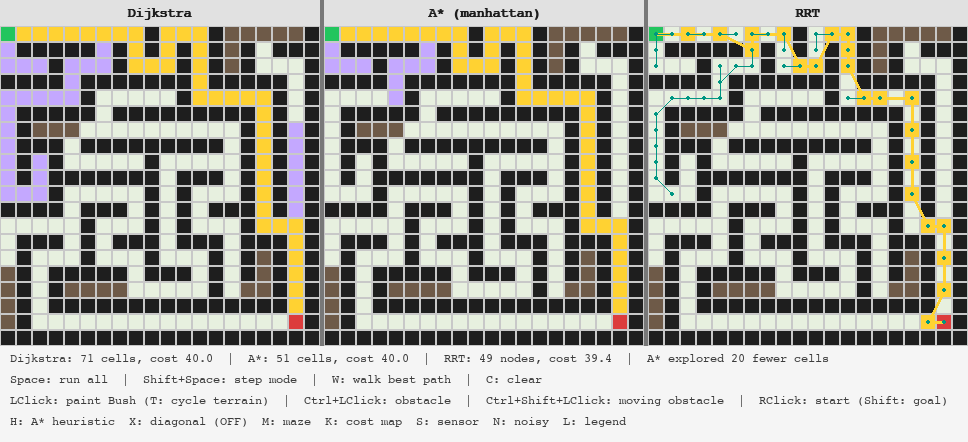
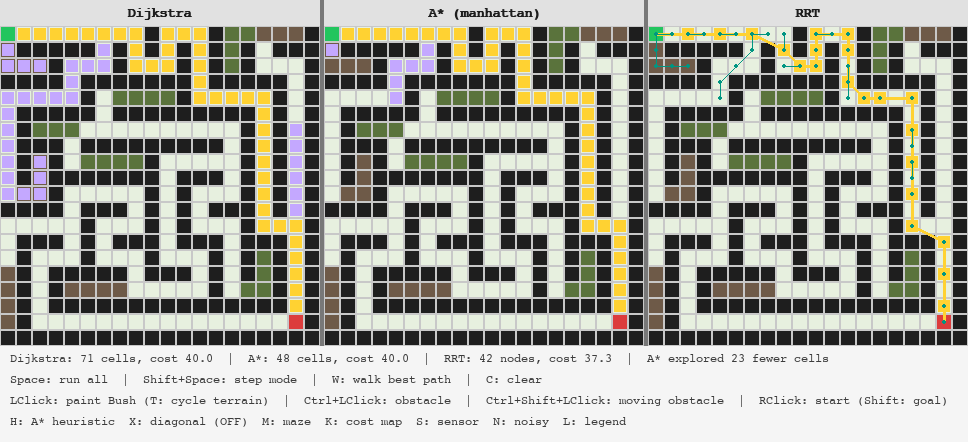
keep terrain visible under path/explored cells (terrain-colored border inset instead of a solid fill) and scatter richer bush/mud/water terrain across all seven scenarios

diff --git a/nav/visualizer.py b/nav/visualizer.py
@@ -67,8 +67,23 @@ def draw_grid_panel(screen, grid, explored, path, algo, reason, moving_cells,
                      sensor_enabled, known_obstacles, x_off, y_off, grid_size, cell_size):
     """Draw one algorithm's panel -- same per-cell priority order as the
     single-panel version had: start/goal, path, explored, obstacle,
-    cost-map tint, terrain background (see Step 3/4)."""
+    cost-map tint, terrain background (see Step 3/4).
+
+    Path and explored are drawn as a smaller inset square over a
+    full-cell terrain-colored background, leaving a visible terrain-
+    colored border ring around the cell, rather than painting over the
+    terrain entirely (an earlier version blended the two colors
+    together instead, which visibly washed out the difference between
+    terrain types once mixed with a strongly-saturated overlay color --
+    bush, mud, and water all blend toward nearly the same muddy yellow
+    once mixed with enough YELLOW, since blending averages away exactly
+    the hue difference that distinguishes them). Keeping both colors at
+    full, unmixed saturation -- terrain in the border, path/explored in
+    the center -- means a viewer never has to guess which terrain type
+    is under a busy Dijkstra wavefront; it's still right there, just
+    framing the cell instead of filling it."""
     path_set = set(path) if path else set()
+    border = max(2, cell_size // 6)
 
     for row in range(grid_size):
         for col in range(grid_size):
@@ -76,17 +91,18 @@ def draw_grid_panel(screen, grid, explored, path, algo, reason, moving_cells,
             pos = (row, col)
             hidden = sensor_enabled and cell == Grid.OBSTACLE and pos not in known_obstacles
             terrain_color = TERRAIN_COLORS[grid.terrain[row][col]]
+            inset_color = None
 
             if cell == Grid.START:
                 color = DARK_RED if reason == "start_blocked" else GREEN
             elif cell == Grid.GOAL:
                 color = DARK_RED if reason in ("goal_blocked", "no_path") else RED
             elif pos in path_set:
-                color = YELLOW
+                color, inset_color = terrain_color, YELLOW
             # RRT's tree is drawn separately as edges -- filling every
             # tree node here would look like Dijkstra's solid explored blob.
             elif pos in explored and algo != "rrt":
-                color = EXPLORED_COLOR
+                color, inset_color = terrain_color, EXPLORED_COLOR
             elif cell == Grid.OBSTACLE and not hidden:
                 color = ORANGE if pos in moving_cells else BLACK
             elif grid.cost_map_enabled and not hidden and grid.cost[row][col] > 1.0:
@@ -98,6 +114,8 @@ def draw_grid_panel(screen, grid, explored, path, algo, reason, moving_cells,
 
             rect = pygame.Rect(x_off + col * cell_size, y_off + row * cell_size, cell_size, cell_size)
             pygame.draw.rect(screen, color, rect)
+            if inset_color is not None:
+                pygame.draw.rect(screen, inset_color, rect.inflate(-2 * border, -2 * border))
             pygame.draw.rect(screen, GRAY, rect, 1)
             if hidden:
                 pygame.draw.rect(screen, HIDDEN_OBSTACLE_OUTLINE, rect, 2)

diff --git a/scenarios/scenario_open.py b/scenarios/scenario_open.py
@@ -1,9 +1,10 @@
 """Open Field -- sparse fixed obstacles scattered across otherwise open
-ground, with a small bush/mud terrain patch near the center. Start near
-top-left, goal near bottom-right, so there's nothing forcing a
-particular route -- this is meant to show Dijkstra's full radial
-exploration blob against A*'s directed search and RRT's random
-sampling, all with (mostly) nothing in the way.
+ground, with bush/mud/water terrain scattered across the whole field
+plus a denser bush/mud patch near the center. Start near top-left, goal
+near bottom-right, so there's nothing forcing a particular route -- this
+is meant to show Dijkstra's full radial exploration blob against A*'s
+directed search and RRT's random sampling, all with (mostly) nothing in
+the way.
 
 Shows: how Dijkstra, A*, and RRT each explore the same open, mostly
 unobstructed ground differently.
@@ -15,13 +16,16 @@ sys.path.insert(0, str(Path(__file__).resolve().parent.parent))
 
 import random
 
-from nav.config import TERRAIN_BUSH, TERRAIN_MUD
+from nav.config import TERRAIN_BUSH, TERRAIN_MUD, TERRAIN_WATER
 from nav.scenario import ScenarioConfig
-from nav.scenario_helpers import scatter_obstacles
+from nav.scenario_helpers import scatter_obstacles, scatter_terrain
 from nav.visualizer import main
 
 SEED = 20260725
 OBSTACLE_DENSITY = 0.08
+BUSH_DENSITY = 0.12
+MUD_DENSITY = 0.08
+WATER_DENSITY = 0.05
 
 
 def build(grid):
@@ -30,9 +34,14 @@ def build(grid):
     grid.place_goal(size - 2, size - 2)
 
     scatter_obstacles(grid, random.Random(SEED), OBSTACLE_DENSITY)
+    scatter_terrain(grid, random.Random(SEED + 1), TERRAIN_BUSH, BUSH_DENSITY)
+    scatter_terrain(grid, random.Random(SEED + 2), TERRAIN_MUD, MUD_DENSITY)
+    scatter_terrain(grid, random.Random(SEED + 3), TERRAIN_WATER, WATER_DENSITY)
 
-    # A small bush/mud patch near the center -- two adjacent blocks so
-    # the two terrain types are clearly next to each other in one shot.
+    # A denser bush/mud patch near the center on top of the broad
+    # scatter -- two adjacent blocks so the two terrain types are
+    # clearly next to each other in one shot, not just wherever chance
+    # placed them.
     mid = size // 2
     for row in range(mid - 2, mid + 1):
         for col in range(mid - 3, mid):

diff --git a/scenarios/scenario_bottleneck.py b/scenarios/scenario_bottleneck.py
@@ -1,10 +1,11 @@
 """Forest Corridor -- two solid obstacle walls running almost the full
 grid height, each with a single narrow gap at the vertical midpoint,
-with bush terrain flanking both gaps. Start left-center, goal
-right-center, so every algorithm is forced through the same two
-chokepoints -- this is meant to make exploration-count and path-cost
-differences between the three algorithms obvious, since they can't just
-take three different routes around open ground.
+with bush terrain flanking both gaps and a broader scatter of bush/mud/
+water across the rest of the map. Start left-center, goal right-center,
+so every algorithm is forced through the same two chokepoints -- this
+is meant to make exploration-count and path-cost differences between
+the three algorithms obvious, since they can't just take three
+different routes around open ground.
 
 Shows: how all three algorithms behave when forced through the same
 narrow chokepoints instead of being free to spread out.
@@ -14,11 +15,18 @@ from pathlib import Path
 
 sys.path.insert(0, str(Path(__file__).resolve().parent.parent))
 
-from nav.config import TERRAIN_BUSH
+import random
+
+from nav.config import TERRAIN_BUSH, TERRAIN_MUD, TERRAIN_WATER
 from nav.scenario import ScenarioConfig
+from nav.scenario_helpers import scatter_terrain
 from nav.visualizer import main
 
 GAP_HALF_HEIGHT = 1  # rows within this distance of the midpoint stay open
+SEED = 20260731
+BUSH_DENSITY = 0.10
+MUD_DENSITY = 0.08
+WATER_DENSITY = 0.05
 
 
 def build(grid):
@@ -35,6 +43,13 @@ def build(grid):
                 continue  # leave the gap open
             if grid.is_free(row, col):
                 grid.toggle_obstacle(row, col)
+
+    # Broad scatter first, so it's the "forest floor" -- then the
+    # deliberate gap-flanking bush below paints last and always wins at
+    # the chokepoints regardless of what the random scatter did there.
+    scatter_terrain(grid, random.Random(SEED), TERRAIN_BUSH, BUSH_DENSITY)
+    scatter_terrain(grid, random.Random(SEED + 1), TERRAIN_MUD, MUD_DENSITY)
+    scatter_terrain(grid, random.Random(SEED + 2), TERRAIN_WATER, WATER_DENSITY)
 
     # Bush terrain flanking each gap's entrance and exit.
     for wall_col in wall_cols:

diff --git a/scenarios/scenario_sensor.py b/scenarios/scenario_sensor.py
@@ -3,7 +3,10 @@ obstacles (animals), lidar sensor enabled (perfect, not noisy), and the
 robot auto-walking as soon as the algorithms have run. Meant to
 demonstrate the sensor radius ring, the visible distinction between
 known (solid) and hidden (outlined) obstacles, and a live replan when an
-animal wanders into the robot's path mid-walk.
+animal wanders into the robot's path mid-walk. Bush/mud/water terrain is
+scattered in too -- previously none of the sensor scenarios painted any
+terrain at all, which was a missed chance to show that the explored-cell
+overlay no longer hides it (see nav/visualizer.py: draw_grid_panel).
 
 Shows: the lidar sensor radius, known vs. hidden obstacles, and the
 robot replanning around a moving animal.
@@ -15,12 +18,16 @@ sys.path.insert(0, str(Path(__file__).resolve().parent.parent))
 
 import random
 
+from nav.config import TERRAIN_BUSH, TERRAIN_MUD, TERRAIN_WATER
 from nav.scenario import ScenarioConfig
-from nav.scenario_helpers import pick_moving_obstacle_cells, scatter_obstacles
+from nav.scenario_helpers import pick_moving_obstacle_cells, scatter_obstacles, scatter_terrain
 from nav.visualizer import main
 
 SEED = 20260726
 OBSTACLE_DENSITY = 0.10
+BUSH_DENSITY = 0.12
+MUD_DENSITY = 0.08
+WATER_DENSITY = 0.04
 NUM_ANIMALS = 5
 ANIMAL_SEED = SEED + 1000
 
@@ -30,6 +37,9 @@ def build(grid):
     grid.place_start(1, 1)
     grid.place_goal(size - 2, size - 2)
     scatter_obstacles(grid, random.Random(SEED), OBSTACLE_DENSITY)
+    scatter_terrain(grid, random.Random(SEED + 1), TERRAIN_BUSH, BUSH_DENSITY)
+    scatter_terrain(grid, random.Random(SEED + 2), TERRAIN_MUD, MUD_DENSITY)
+    scatter_terrain(grid, random.Random(SEED + 3), TERRAIN_WATER, WATER_DENSITY)
 
 
 def moving_obstacles(grid):

diff --git a/scenarios/scenario_maze.py b/scenarios/scenario_maze.py
@@ -1,7 +1,8 @@
 """Deep Forest -- the existing recursive-backtracking maze generator
-(nav/maze.py), fixed-seed for reproducibility, with mud terrain filling
-several dead-end branches. Start and goal at opposite corners -- a maze
-is a "perfect" one (exactly one route between any two cells), so this is
+(nav/maze.py), fixed-seed for reproducibility, with mud and bush terrain
+filling most dead-end branches (alternating the two so they're easy to
+tell apart at a glance). Start and goal at opposite corners -- a maze is
+a "perfect" one (exactly one route between any two cells), so this is
 meant to show RRT's random-sampling tree fighting its way through a
 winding, mostly-single-path environment against Dijkstra/A*'s systematic
 wavefront.
@@ -16,7 +17,7 @@ sys.path.insert(0, str(Path(__file__).resolve().parent.parent))
 
 import random
 
-from nav.config import TERRAIN_MUD
+from nav.config import TERRAIN_BUSH, TERRAIN_MUD
 from nav.maze import generate_maze
 from nav.scenario import ScenarioConfig
 from nav.scenario_helpers import find_dead_ends, paint_branch
@@ -24,7 +25,7 @@ from nav.visualizer import main
 
 MAZE_SEED = 7
 DEAD_END_SEED = 8
-DEAD_ENDS_TO_FILL = 6
+DEAD_ENDS_TO_FILL = 14
 
 
 def build(grid):
@@ -39,8 +40,9 @@ def build(grid):
 
     dead_ends = find_dead_ends(grid)
     random.Random(DEAD_END_SEED).shuffle(dead_ends)
-    for cell in dead_ends[:DEAD_ENDS_TO_FILL]:
-        paint_branch(grid, cell, TERRAIN_MUD)
+    for i, cell in enumerate(dead_ends[:DEAD_ENDS_TO_FILL]):
+        terrain_type = TERRAIN_MUD if i % 2 == 0 else TERRAIN_BUSH
+        paint_branch(grid, cell, terrain_type)
 
 
 CONFIG = ScenarioConfig(

diff --git a/scenarios/scenario_stepreplay.py b/scenarios/scenario_stepreplay.py
@@ -8,6 +8,12 @@ mid-expansion states are for.
 
 Shows: the search algorithms mid-expansion, one step at a time, instead
 of a finished result.
+
+Bush/mud/water terrain is scattered in too -- previously this scenario
+painted none at all, and a frozen mid-expansion state is exactly where
+terrain peeking out ahead of the wavefront (revealed cells now leave a
+terrain-colored border instead of covering it, see nav/visualizer.py:
+draw_grid_panel) is easiest to actually see.
 """
 import sys
 from pathlib import Path
@@ -16,12 +22,16 @@ sys.path.insert(0, str(Path(__file__).resolve().parent.parent))
 
 import random
 
+from nav.config import TERRAIN_BUSH, TERRAIN_MUD, TERRAIN_WATER
 from nav.scenario import ScenarioConfig
-from nav.scenario_helpers import scatter_obstacles
+from nav.scenario_helpers import scatter_obstacles, scatter_terrain
 from nav.visualizer import main
 
 SEED = 20260728
 OBSTACLE_DENSITY = 0.08
+BUSH_DENSITY = 0.10
+MUD_DENSITY = 0.09
+WATER_DENSITY = 0.06
 STEP_SNAPSHOT = 60  # cells/nodes revealed per panel
 
 
@@ -30,6 +40,9 @@ def build(grid):
     grid.place_start(1, 1)
     grid.place_goal(size - 2, size - 2)
     scatter_obstacles(grid, random.Random(SEED), OBSTACLE_DENSITY)
+    scatter_terrain(grid, random.Random(SEED + 1), TERRAIN_BUSH, BUSH_DENSITY)
+    scatter_terrain(grid, random.Random(SEED + 2), TERRAIN_MUD, MUD_DENSITY)
+    scatter_terrain(grid, random.Random(SEED + 3), TERRAIN_WATER, WATER_DENSITY)
 
 
 CONFIG = ScenarioConfig(

diff --git a/scenarios/scenario_noisy_sensor.py b/scenarios/scenario_noisy_sensor.py
@@ -10,6 +10,10 @@ ghost/missed readings become visible as the robot walks.
 
 Shows: how a noisy, imperfect sensor differs from a perfect one --
 missed detections, jittered positions, and occasional false readings.
+
+Bush/mud/water terrain is scattered in too, a heavier and slightly
+different mix from Hidden Animals so the two sensor scenarios don't
+look identical -- previously neither painted any terrain at all.
 """
 import sys
 from pathlib import Path
@@ -18,12 +22,16 @@ sys.path.insert(0, str(Path(__file__).resolve().parent.parent))
 
 import random
 
+from nav.config import TERRAIN_BUSH, TERRAIN_MUD, TERRAIN_WATER
 from nav.scenario import ScenarioConfig
-from nav.scenario_helpers import pick_moving_obstacle_cells, scatter_obstacles
+from nav.scenario_helpers import pick_moving_obstacle_cells, scatter_obstacles, scatter_terrain
 from nav.visualizer import main
 
 SEED = 20260729
 OBSTACLE_DENSITY = 0.10
+BUSH_DENSITY = 0.10
+MUD_DENSITY = 0.06
+WATER_DENSITY = 0.07
 NUM_ANIMALS = 4
 ANIMAL_SEED = SEED + 1000
 
@@ -33,6 +41,9 @@ def build(grid):
     grid.place_start(1, 1)
     grid.place_goal(size - 2, size - 2)
     scatter_obstacles(grid, random.Random(SEED), OBSTACLE_DENSITY)
+    scatter_terrain(grid, random.Random(SEED + 1), TERRAIN_BUSH, BUSH_DENSITY)
+    scatter_terrain(grid, random.Random(SEED + 2), TERRAIN_MUD, MUD_DENSITY)
+    scatter_terrain(grid, random.Random(SEED + 3), TERRAIN_WATER, WATER_DENSITY)
 
 
 def moving_obstacles(grid):

diff --git a/scenarios/scenario_costmap.py b/scenarios/scenario_costmap.py
@@ -20,13 +20,15 @@ sys.path.insert(0, str(Path(__file__).resolve().parent.parent))
 
 import random
 
-from nav.config import TERRAIN_WATER
+from nav.config import TERRAIN_BUSH, TERRAIN_MUD, TERRAIN_WATER
 from nav.scenario import ScenarioConfig
-from nav.scenario_helpers import scatter_obstacles
+from nav.scenario_helpers import scatter_obstacles, scatter_terrain
 from nav.visualizer import main
 
 SEED = 20260727
 OBSTACLE_DENSITY = 0.10
+BUSH_DENSITY = 0.10
+MUD_DENSITY = 0.07
 
 
 def build(grid):
@@ -35,6 +37,11 @@ def build(grid):
     grid.place_goal(size - 2, size - 2)
 
     scatter_obstacles(grid, random.Random(SEED), OBSTACLE_DENSITY)
+    # Bush/mud scattered broadly first, so the cost-map/diagonal story
+    # isn't the only terrain in the shot -- the water strip below is
+    # painted last so it always wins the middle row regardless.
+    scatter_terrain(grid, random.Random(SEED + 1), TERRAIN_BUSH, BUSH_DENSITY)
+    scatter_terrain(grid, random.Random(SEED + 2), TERRAIN_MUD, MUD_DENSITY)
 
     # A water strip across the middle, away from start/goal, so a
     # diagonal path has an obvious reason to route around rather than
